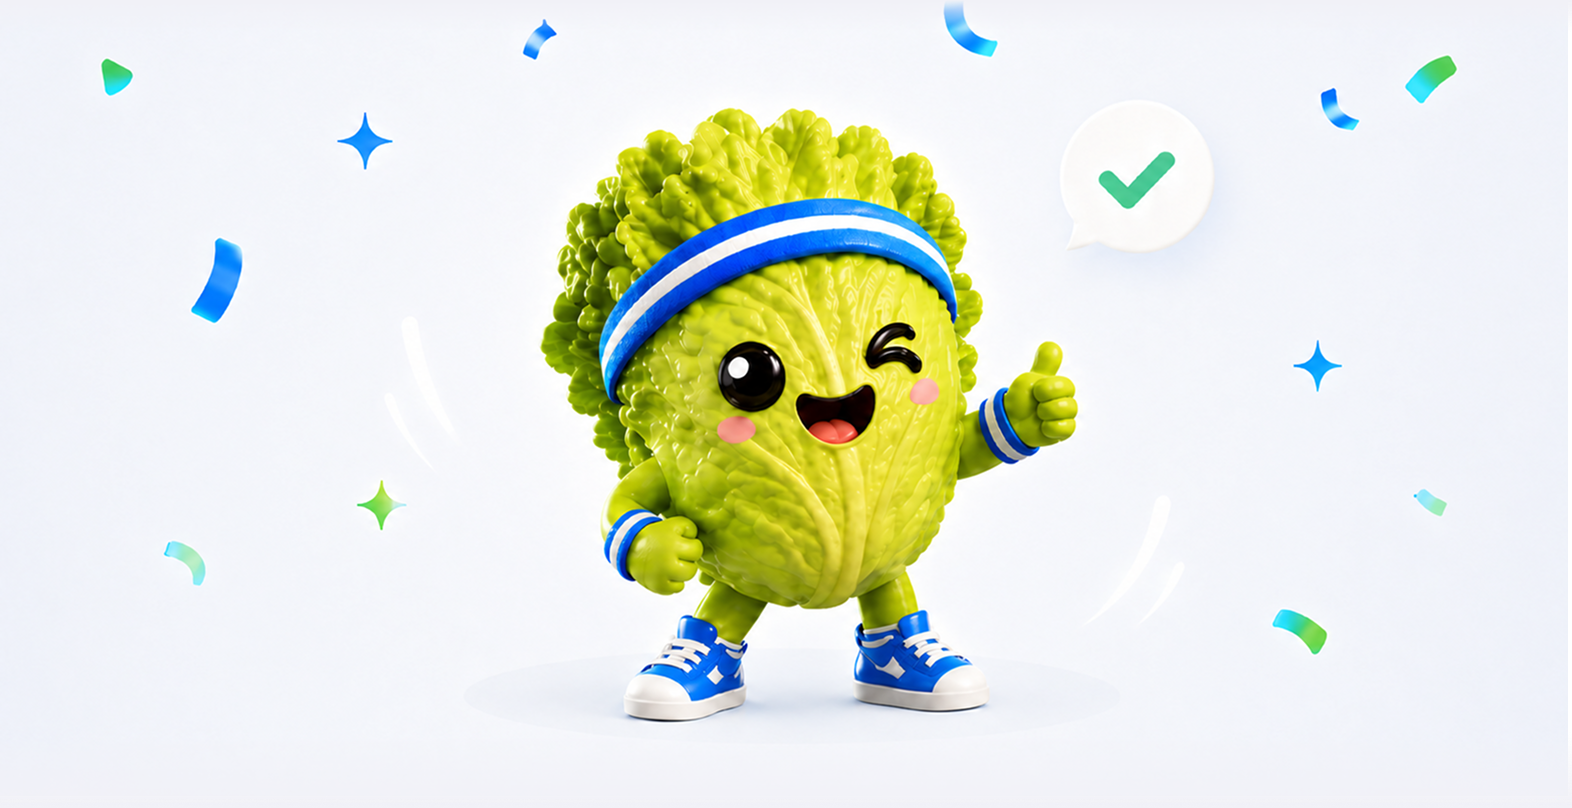
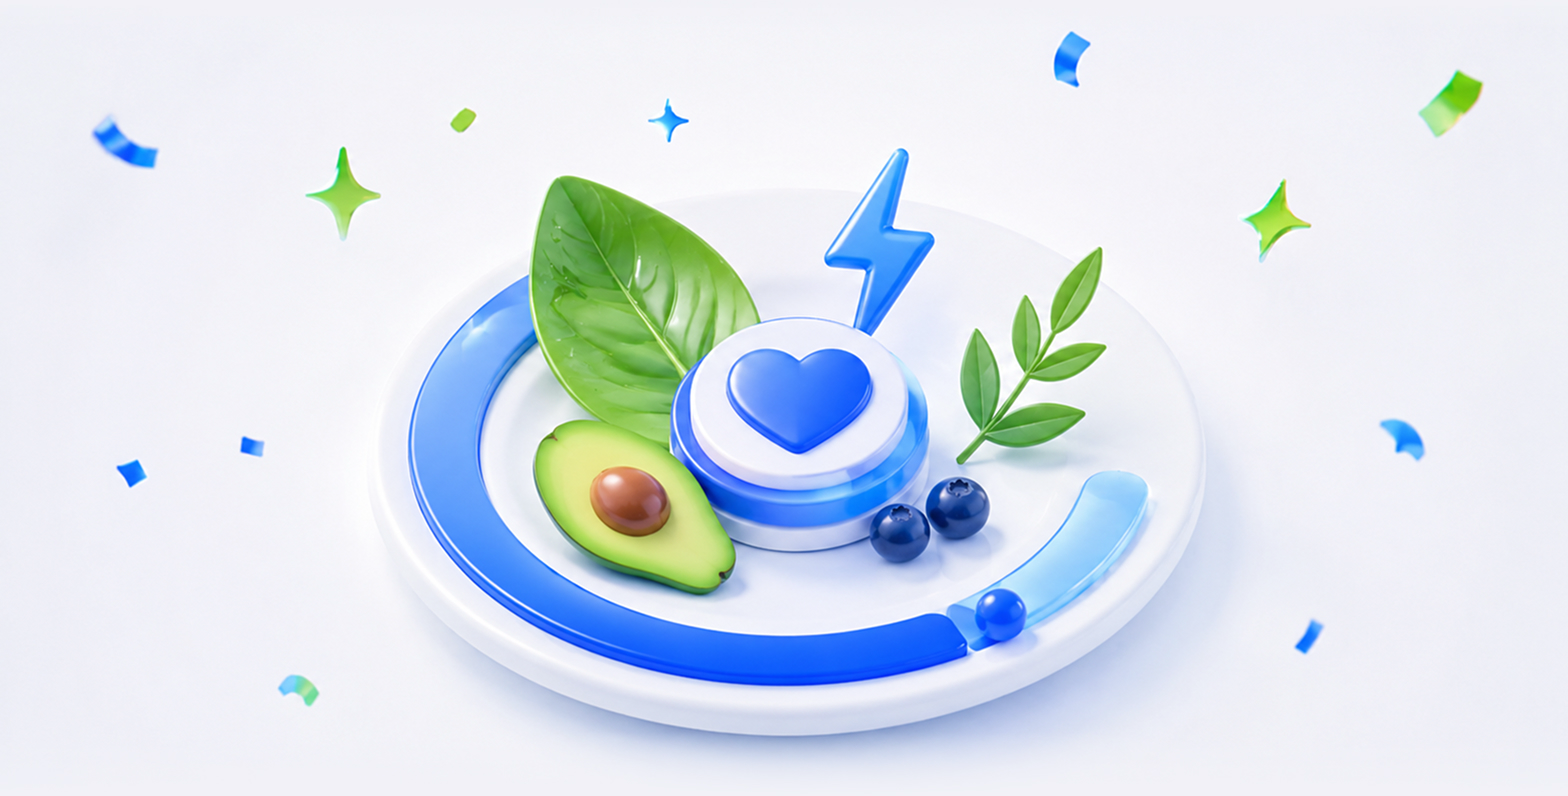
chore(visuals): new paywall hero illustration + drop AI loader mascot
- Replaced the paywall hero PNG (light + dark) with the new
  blue-themed 3D illustration. Aspect (1568×796) matches the previous
  asset closely enough that the AspectRatio in code stays the same.
- AI meal-recognition loader: removed the meditating cabbage mascot
  and its breathing animation. Compensated with extra top padding
  (24 → 56) so the progress bars sit at roughly the same Y as before.
  Dropped the now-unused _spinController (declaration, init, repeat,
  stop, dispose) and the entire _MeditatingMascot widget.

diff --git a/app/lib/features/camera/widgets/ai_meal_result_sheet.dart b/app/lib/features/camera/widgets/ai_meal_result_sheet.dart
@@ -496,7 +496,6 @@ class _AiMealResultSheetState extends State<AiMealResultSheet>
 
   bool _isLoading = false;
   String? _loadingError;
-  late final AnimationController _spinController;
 
   /// Three-stage progress for the AI loading screen. Each stage runs in
   /// sequence: "analyzing" → "recognizing" → "counting calories". Each fills
@@ -528,10 +527,6 @@ class _AiMealResultSheetState extends State<AiMealResultSheet>
   void initState() {
     super.initState();
 
-    _spinController = AnimationController(
-      vsync: this,
-      duration: const Duration(milliseconds: 1700),
-    );
     _stage1Ctl = AnimationController(
       vsync: this,
       duration: const Duration(milliseconds: 1400),
@@ -565,7 +560,6 @@ class _AiMealResultSheetState extends State<AiMealResultSheet>
 
     if (widget.pendingResult != null) {
       _isLoading = true;
-      _spinController.repeat();
       _stage1Ctl.forward();
       _awaitResult();
     } else if (widget.result != null) {
@@ -657,7 +651,6 @@ class _AiMealResultSheetState extends State<AiMealResultSheet>
     Future<void>.delayed(_postCompleteHold, () {
       if (!mounted || !_isLoading) return;
 
-      _spinController.stop();
       if (_pendingErrorMessage != null) {
         setState(() {
           _isLoading = false;
@@ -710,7 +703,6 @@ class _AiMealResultSheetState extends State<AiMealResultSheet>
   @override
   void dispose() {
     _flushAutosave();
-    _spinController.dispose();
     _stage1Ctl.dispose();
     _stage2Ctl.dispose();
     _stage3Ctl.dispose();
@@ -1689,15 +1681,15 @@ class _AiMealResultSheetState extends State<AiMealResultSheet>
         : AppColors.lineLight200;
 
     // Outer scroll padding contributes 8px on each side, so 28px here lands
-    // the progress bars at exactly 36px from the screen edges.
+    // the progress bars at exactly 36px from the screen edges. The extra
+    // top padding replaces the breathing room the cabbage mascot used to
+    // occupy.
     return Padding(
-      padding: const EdgeInsets.fromLTRB(28, 24, 28, 24),
+      padding: const EdgeInsets.fromLTRB(28, 56, 28, 32),
       child: Column(
         mainAxisSize: MainAxisSize.min,
         crossAxisAlignment: CrossAxisAlignment.stretch,
         children: [
-          Center(child: _MeditatingMascot(float: _spinController)),
-          const SizedBox(height: 4),
           AnimatedBuilder(
             animation: Listenable.merge([
               _stage1Anim,
@@ -3470,52 +3462,6 @@ class _RingSegment {
   const _RingSegment(this.share, this.colors);
   final double share;
   final List<Color> colors;
-}
-
-/// Cabbage mascot that breathes up-and-down while the AI is recognising the
-/// dish. A blurred radial ellipse beneath it doubles as a contact shadow —
-/// it widens and darkens slightly as the mascot dips, sells the float.
-class _MeditatingMascot extends StatelessWidget {
-  const _MeditatingMascot({required this.float});
-
-  /// 0..1 looping animation that drives one breath cycle.
-  final Animation<double> float;
-
-  static const double _mascotSize = 120;
-
-  @override
-  Widget build(BuildContext context) {
-    return RepaintBoundary(
-      child: SizedBox(
-        width: _mascotSize,
-        height: _mascotSize + 6,
-        child: AnimatedBuilder(
-          animation: float,
-          builder: (context, child) {
-            // Sin wave: -1 (top of breath) → 0 → 1 (bottom of breath).
-            final phase = math.sin(float.value * 2 * math.pi);
-            final lift = -phase * 5 - 1; // gentle bob
-            // Subtle scale pulse layered on top of the bob makes the breath
-            // read as inhale/exhale rather than a flat hover.
-            final scale = 1 + 0.02 * phase;
-            return Transform.translate(
-              offset: Offset(0, lift),
-              child: Transform.scale(scale: scale, child: child),
-            );
-          },
-          child: Center(
-            child: Image.asset(
-              'assets/mascot/meditate.png',
-              width: _mascotSize,
-              height: _mascotSize,
-              fit: BoxFit.contain,
-              filterQuality: FilterQuality.medium,
-            ),
-          ),
-        ),
-      ),
-    );
-  }
 }
 
 class _LoadingProgressRow extends StatelessWidget {